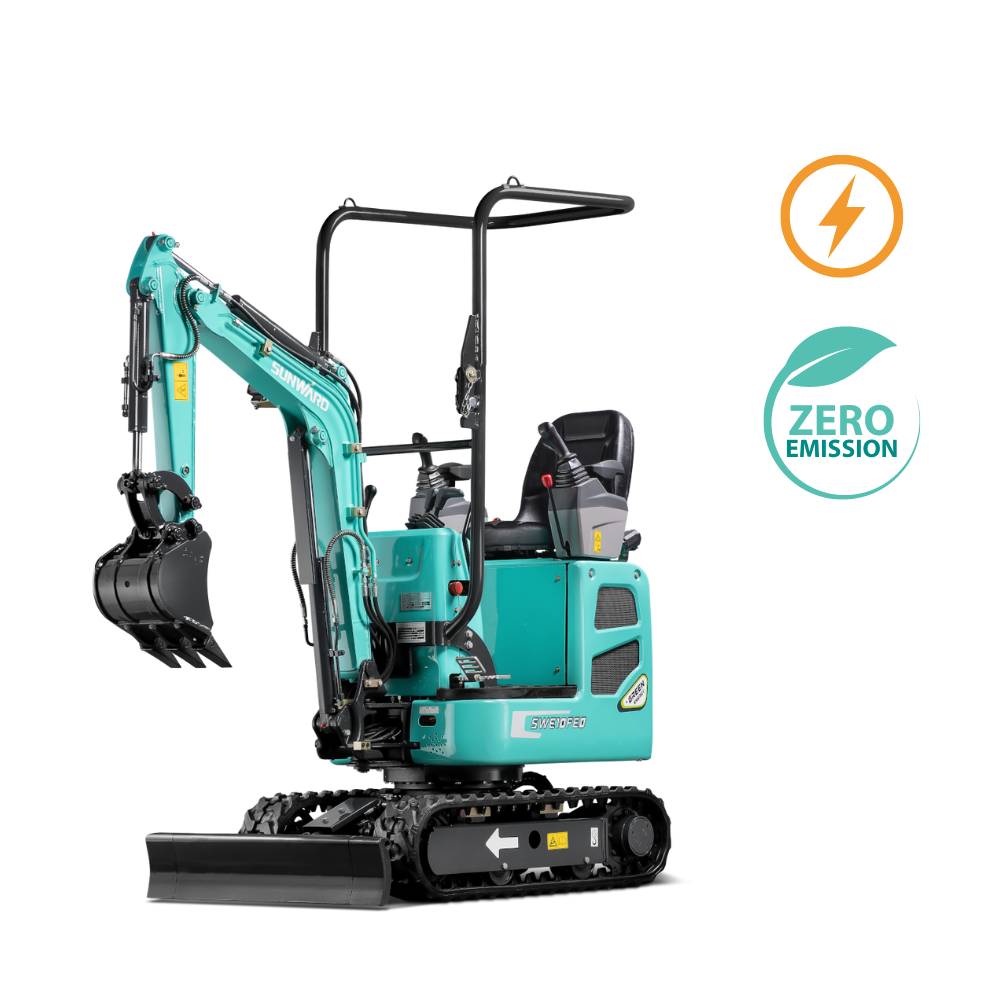
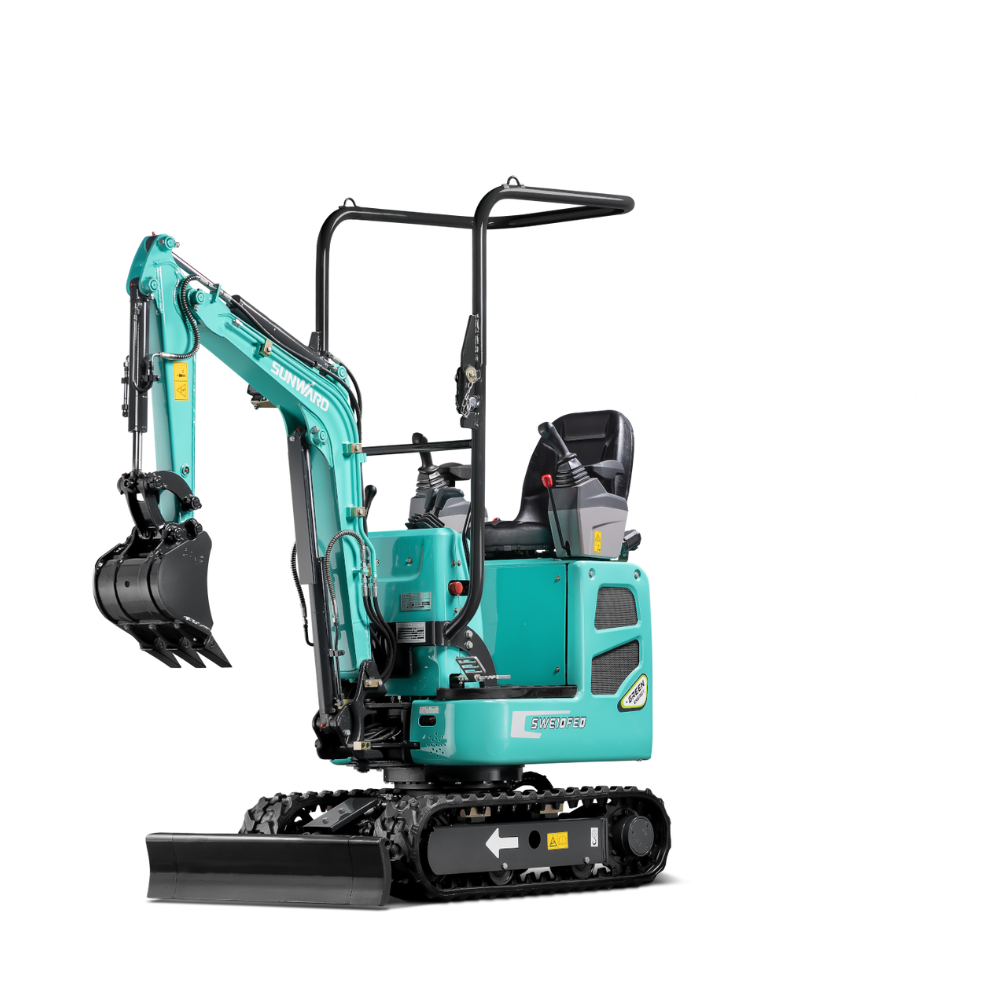
Hero: SWE 240FE als Motiv, 1–160 tona, Elektro-Badges entfernt
Drei zusammenhängende Änderungen:

1. "Bageri od 1 do 34 tone" → "od 1 do 160 tona" an allen drei Stellen
   (Hero, /proizvodi-Description, Bageri-Kategorie-Lede). Zoran führt auf
   Anfrage bis 160t, über den 51er-Katalog hinaus. "134 tone" bei den
   Bušače garniture ist ein anderer Wert und bleibt.

2. Hero-Motiv von SWE 155F auf SWE 240FE, beide SiteImage-Instanzen
   (Mobil im Fluss + Desktop absolut positioniert).

3. Vorbedingung für 2: die eingebrannten englischen Elektro-Badges
   ("ZERO EMISSION"-Blatt + Blitzkreis) sind aus allen drei Elektro-Fotos
   entfernt. Als Hero wäre "ZERO EMISSION" die sichtbarste Stelle der
   Seite geworden — dieselbe Begründung wie beim NEW-Banner: englischer
   Text auf einer rein kroatischen Seite, und die Seite kennzeichnet
   Elektromodelle ohnehin selbst über ui.product.electric ("Električni").
   Der Blitzkreis geht mit, weil er im Hero als unerklärter oranger Kreis
   neben dem orangen CTA steht.

Umsetzung im Skript statt per Hand, sonst holt `npm run fetch-images` die
Badges still zurück. strip-new-badges.py → strip-badges.py umbenannt, da
es jetzt zwei Badge-Typen abdeckt (npm-Script hiess ohnehin schon so).

Erkennung über Zusammenhangskomponenten, nicht über Farbe: das teal des
Blattes liegt zu nah an der Maschinenlackierung. Was im weissen Bereich
oben rechts als Insel liegt, ohne den ROI-Rand zu berühren, ist ein Badge.
Entschieden wird pro Bild über die Gesamtfläche (~13.900px), weil sonst
[…]

Changed region(s): [[0.744, 0.31, 0.899, 0.496], [0.775, 0.155, 0.899, 0.279]]

diff --git a/src/app/page.tsx b/src/app/page.tsx
@@ -51,7 +51,7 @@ export default function HomePage() {
               {site.tagline}
             </h1>
             <p className="mt-4 max-w-2xl text-base leading-relaxed text-ink-body">
-              {`Bageri od 1 do 34 tone, utovarivači, radne platforme i kompletna dodatna oprema — cijeli Sunward program iz jedne ruke. ${site.warranty.headline}.`}
+              {`Bageri od 1 do 160 tona, utovarivači, radne platforme i kompletna dodatna oprema — cijeli Sunward program iz jedne ruke. ${site.warranty.headline}.`}
             </p>
             <div className="mt-7 flex flex-wrap gap-3">
               <Link
@@ -80,7 +80,7 @@ export default function HomePage() {
               gemeinsame Klasse hätte beides angemessen bedient. */}
           <div className="mt-10 lg:hidden">
             <SiteImage
-              id="proizvodi/swe155f/glavna"
+              id="proizvodi/swe240fe/glavna"
               priority
               ratio="4/3"
               imgClassName="object-contain"
@@ -143,6 +143,12 @@ export default function HomePage() {
               Alt-Text ist dort schon final. object-contain, damit der
               Ausleger garantiert nicht angeschnitten wird.
 
+              SWE 240FE als Motiv (vorher SWE 155F): der grösste Bagger
+              wirkt im Hero repräsentativer. Die eingebrannten englischen
+              Badges („ZERO EMISSION" + Blitzkreis) sind dafür aus allen
+              drei Elektro-Fotos entfernt worden — siehe
+              scripts/strip-badges.py, dort steht die Begründung.
+
               `ratio` gepinnt, weil die Box hier die Höhe der Bühne bestimmt
               und nicht das Foto: der Kasten ist nur so breit wie der
               Leerraum rechts vom Text, seine Höhe folgt daraus. Bei 1920px
@@ -151,7 +157,7 @@ export default function HomePage() {
               in a2a6f50 eingestellten 31px Überstand je Seite. Zuschnitt
               ist dabei kein Thema, object-contain schneidet nichts ab. */}
           <SiteImage
-            id="proizvodi/swe155f/glavna"
+            id="proizvodi/swe240fe/glavna"
             priority
             ratio="4/3"
             imgClassName="object-contain"

diff --git a/src/content/taxonomy.ts b/src/content/taxonomy.ts
@@ -22,7 +22,7 @@ export const categories = {
     slug: "bageri",
     name: "Bageri",
     nameSingular: "bager",
-    lede: "Sunward bageri od 1 do 34 tone — od mini bagera koji prolazi kroz vrtna vrata do velikih strojeva za zemljane radove. Kao generalni zastupnik za Hrvatsku isporučujemo, servisiramo i financiramo cijeli program.",
+    lede: "Sunward bageri od 1 do 160 tona — od mini bagera koji prolazi kroz vrtna vrata do velikih strojeva za zemljane radove. Kao generalni zastupnik za Hrvatsku isporučujemo, servisiramo i financiramo cijeli program.",
     heroImage: "kategorije/bageri/hero",
     keywords: [
       "kineski bager",

diff --git a/src/app/proizvodi/page.tsx b/src/app/proizvodi/page.tsx
@@ -14,7 +14,7 @@ import { pageMetadata } from "@/lib/seo";
 export const metadata = pageMetadata({
   title: "Sunward strojevi — cijeli program za Hrvatsku",
   description:
-    "Svi Sunward modeli u osam kategorija: bageri od 1 do 34 tone, kompaktni i zglobni utovarivači, bušače garniture, radne platforme, teleskopske dizalice i teleskopski utovarivač.",
+    "Svi Sunward modeli u osam kategorija: bageri od 1 do 160 tona, kompaktni i zglobni utovarivači, bušače garniture, radne platforme, teleskopske dizalice i teleskopski utovarivač.",
   path: routes.proizvodi(),
 });
 

diff --git a/scripts/strip-badges.py b/scripts/strip-badges.py
@@ -1,0 +1,223 @@
+#!/usr/bin/env python3
+"""
+Entfernt die von sunward.eu in die Produktfotos eingebrannten Badges:
+das englische „NEW"-Banner (oranges Band, oben rechts) und die
+Elektro-Kennzeichen der drei Elektromodelle (oranger Blitzkreis +
+teal „ZERO EMISSION"-Blatt).
+
+Warum überhaupt: die Fotos kommen per `npm run fetch-images` direkt von
+sunward.eu und tragen bei 19 der 51 Modelle dieses Banner. Auf einer
+ausschliesslich kroatischen Seite ist englischer Text im Bild falsch
+(CLAUDE.md §1), der „neu"-Status ist der von sunward.eu und nicht Zorans,
+und optisch kollidiert das Banner mit dem eigenen Orange-System
+(NOVO-Badge, Električni-Badge). Sichtbar wurde es erst, als die Karten von
+object-cover auf object-contain umgestellt wurden — vorher schnitt der
+4/3-Ausschnitt es zufällig weg.
+
+Vorgehen: die Badges werden NICHT weggeschnitten, sondern transparent
+gesetzt. Ein Beschnitt würde das 1:1-Seitenverhältnis der Dateien
+verändern, und darauf verlassen sich Manifest-Ratio und object-contain bei
+allen Modellen gleichermassen.
+
+Erkennung des NEW-Banners ist absichtlich streng: nur ein massives oranges
+Band, das oben UND rechts am Rand verankert ist, und nur so weit nach
+unten, wie das Band durchgehend orange bleibt. Eine lockerere Erkennung
+hatte bei SWE 20F-1 zusätzlich die orange Rundumleuchte auf der Kabine
+erfasst — dort hätte ein pauschales Rechteck in die Maschine
+hineingeschnitten.
+
+Die Elektro-Kennzeichen (SWE 10FE, SWE 20FE, SWE 240FE) waren zunächst
+bewusst stehen geblieben, weil sie nirgends prominent waren. Mit dem
+Wechsel des Hero-Motivs auf SWE 240FE wäre „ZERO EMISSION" die sichtbarste
+Stelle der ganzen Seite geworden — jetzt entschieden und entfernt, aus
+denselben Gründen wie beim NEW-Banner: englischer Text im Bild auf einer
+rein kroatischen Seite, und die Seite kennzeichnet Elektromodelle ohnehin
+selbst über `ui.product.electric` („Električni"). Der Blitzkreis ist zwar
+sprachneutral, geht aber mit weg: im Hero steht er als unerklärter oranger
+Kreis direkt neben dem orangen CTA-Button und kollidiert mit demselben
+Orange-System wie das NEW-Banner.
+
+Erkennung der Elektro-Badges läuft NICHT über Farbe — das teal des Blattes
+liegt zu nah an der Maschinenlackierung. Stattdessen über
+Zusammenhangskomponenten im weissen Bereich oben rechts: was dort als
+Insel liegt, ohne den ROI-Rand zu berühren (über den die Maschine
+hereinragt), ist ein Badge. Gemessener Abstand Badge↔Maschine ist in allen
+drei Bildern ≥8px, der 2px-Rand gegen Antialiasing-Ränder ist damit sicher.
+Ein pauschales Rechteck wäre es NICHT: bei SWE 10FE beginnt die Maschine
+bei y=480, das Blatt reicht bis y=499 — die Bounding-Box hätte in den
+Ausleger geschnitten. Gegenprobe über alle Modelle: exakt die drei
+Elektromodelle schlagen an, kein Fehlauslöser bei den übrigen 48.
+
+Idempotent — ein zweiter Lauf findet nichts mehr. Reihenfolge nach einem
+Neu-Download: erst `npm run fetch-images`, dann dieses Skript.
+
+Braucht Pillow (`pip3 install Pillow`). Bewusst Python und nicht Node:
+für eine einmalige Bildoperation wäre `sharp` als native Dependency im
+package.json teurer als dieses Skript.
+
+    npm run strip-badges
+"""
+
+import pathlib
+import sys
+from collections import deque
+
+try:
+    from PIL import Image, ImageChops, ImageFilter
+except ImportError:
+    sys.exit("Pillow fehlt. Installieren mit:  pip3 install Pillow")
+
+ROOT = pathlib.Path(__file__).resolve().parent.parent / "public" / "slike" / "proizvodi"
+
+# Mindestbreite an orangen Pixeln in einer Zeile, damit sie als Bandzeile gilt.
+MIN_RUN = 200
+# Nur in der rechten Bildhälfte suchen, und höchstens im oberen Drittel.
+X_FROM = 0.55
+Y_MAX = 0.30
+
+
+def is_badge_orange(pixel) -> bool:
+    r, g, b, a = pixel
+    return a > 30 and r > 200 and 110 < g < 195 and b < 95
+
+
+def banner_rect(im: Image.Image):
+    """(x0, y0, x1, y1) des NEW-Bands oder None."""
+    w, h = im.size
+    px = im.load()
+
+    def run(y: int) -> int:
+        return sum(1 for x in range(int(w * X_FROM), w) if is_badge_orange(px[x, y]))
+
+    if run(0) < MIN_RUN:
+        return None  # oben rechts nicht verankert → kein Banner
+
+    y1 = 0
+    while y1 + 1 < int(h * Y_MAX) and run(y1 + 1) >= MIN_RUN:
+        y1 += 1
+
+    xs = [x for x in range(int(w * X_FROM), w) if is_badge_orange(px[x, 0])]
+    return (min(xs), 0, w - 1, y1)
+
+
+# ── Elektro-Badges ───────────────────────────────────────────────────────
+# Suchfenster: rechte 35 %, obere 60 %. Weit genug, dass beide Badges ganz
+# hineinpassen, eng genug, dass die Maschine nur von unten/links hereinragt
+# — worüber sie sich als „berührt den Rand" zu erkennen gibt.
+E_X_FROM, E_Y_TO = 0.65, 0.60
+# Rand gegen Antialiasing-Säume. 2px ist sicher, siehe Abstandsmessung oben.
+E_PAD = 2
+# Einzelne Pixel sind Kompressionsrauschen, keine Insel.
+E_MIN_AREA = 5
+# Entschieden wird pro BILD, nicht pro Insel: die beiden Badges bringen
+# zusammen ~13.900 px mit. Bilder ohne Badges haben trotzdem vereinzelte
+# Inseln oben rechts — abgelöste Antennenspitzen, Spiegel, Geländerstücke
+# (SWSL 1623RT 23 px, SWSL 2023RT 133 px, SWTL 5238 76 px). Eine
+# Flächenschwelle pro Insel würde diese entweder mitlöschen oder die
+# Antialiasing-Splitter der echten Badges stehen lassen; die Summe trennt
+# beide Fälle um zwei Grössenordnungen sauber.
+E_MIN_TOTAL = 2000
+
+
+def solid_mask(im: Image.Image) -> bytearray:
+    """255 pro Pixel, das weder transparent noch (nahezu) weiss ist.
+
+    Bewusst 0/255 und nicht 0/1: `ImageChops.multiply` rechnet (a·b)/255,
+    mit Einsen käme überall 0 heraus.
+    """
+    r, g, b, a = im.split()
+    # Minimum der drei Kanäle: nur wenn ALLE drei hoch sind, ist es weiss.
+    darkest = ImageChops.darker(ImageChops.darker(r, g), b)
+    not_white = darkest.point(lambda v: 255 if v <= 245 else 0)
+    opaque = a.point(lambda v: 255 if v > 30 else 0)
+    return bytearray(ImageChops.multiply(not_white, opaque).tobytes())
+
+
+def electric_mask(im: Image.Image):
+    """Maske der freistehenden Badge-Inseln oben rechts, oder None."""
+    w, h = im.size
+    solid = solid_mask(im)
+    x0, y_to = int(w * E_X_FROM), int(h * E_Y_TO)
+
+    seen = bytearray(w * h)
+    islands: list[list[int]] = []
+
+    for sy in range(y_to):
+        for sx in range(x0, w):
+            start = sy * w + sx
+            if not solid[start] or seen[start]:
+                continue
+            comp, q, at_edge = [], deque([start]), False
+            seen[start] = 1
+            while q:
+                i = q.popleft()
+                comp.append(i)
+                cx, cy = i % w, i // w
+                # Rand des Suchfensters, über den die Maschine hereinragt.
+                if cx == x0 or cy == y_to - 1:
+                    at_edge = True
+                for nx, ny in ((cx + 1, cy), (cx - 1, cy), (cx, cy + 1), (cx, cy - 1)):
+                    if x0 <= nx < w and 0 <= ny < y_to:
+                        j = ny * w + nx
+                        if solid[j] and not seen[j]:
+                            seen[j] = 1
+                            q.append(j)
+            # Randberührung = Maschine, nicht Badge. Niemals löschen.
+            if not at_edge and len(comp) >= E_MIN_AREA:
+                islands.append(comp)
+
+    total = sum(len(c) for c in islands)
+    if total < E_MIN_TOTAL:
+        return None
+
+    mask = Image.new("L", im.size, 0)
+    px = mask.load()
+    for comp in islands:
+        for i in comp:
+            px[i % w, i // w] = 255
+    return mask.filter(ImageFilter.MaxFilter(2 * E_PAD + 1)), total
+
+
+def main() -> None:
+    if not ROOT.is_dir():
+        sys.exit(f"Nicht gefunden: {ROOT}\nZuerst `npm run fetch-images` laufen lassen.")
+
+    banners, electrics, untouched = [], [], 0
+    for folder in sorted(ROOT.iterdir()):
+        f = folder / "glavna.png"
+        if not f.exists():
+            continue
+        im = Image.open(f).convert("RGBA")
+        touched = False
+
+        rect = banner_rect(im)
+        if rect is not None:
+            x0, y0, x1, y1 = rect
+            # Transparent setzen — Dateigrösse und Seitenverhältnis bleiben.
+            im.paste((0, 0, 0, 0), (x0, y0, x1 + 1, y1 + 1))
+            banners.append((folder.name, f"{x1 - x0 + 1}x{y1 - y0 + 1}"))
+            touched = True
+
+        found = electric_mask(im)
+        if found is not None:
+            mask, area = found
+            im.paste((0, 0, 0, 0), mask=mask)
+            electrics.append((folder.name, f"{area} px"))
+            touched = True
+
+        if touched:
+            im.save(f)
+        else:
+            untouched += 1
+
+    print("# NEW-Banner entfernt\n")
+    for name, size in banners:
+        print(f"  ✓ {name:<16} {size}")
+    print("\n# Elektro-Badges entfernt (Blitz + ZERO EMISSION)\n")
+    for name, size in electrics:
+        print(f"  ✓ {name:<16} {size}")
+    print(f"\nBanner: {len(banners)}   Elektro: {len(electrics)}   unberührt: {untouched}")
+
+
+if __name__ == "__main__":
+    main()
